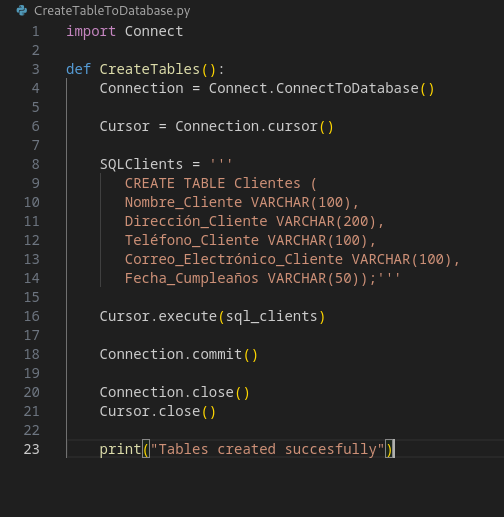
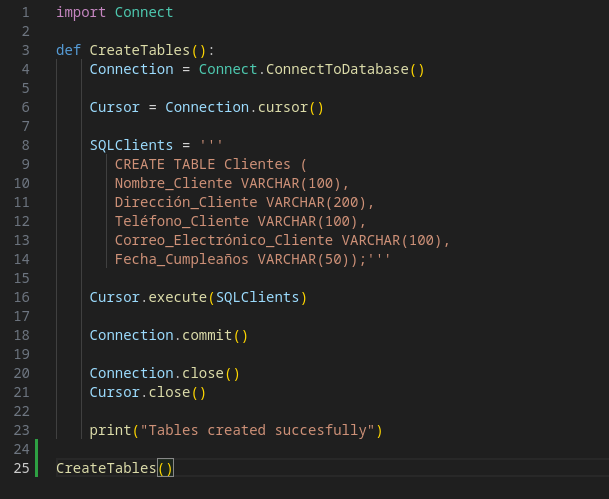
Treball a classe 23/01/2025

diff --git a/bloc2_Jan/postgresql_python/DictionaryToDatabase.py b/bloc2_Jan/postgresql_python/DictionaryToDatabase.py
@@ -4,7 +4,7 @@ def SendDataToDatabase(Index, Data):
    Connection = Connect.ConnectToDatabase()
 
    Cursor = Connection.cursor()
-   SQLInstruction = "INSERT INTO Clientes2 (nombre_cliente, dirección_cliente, teléfono_cliente, correo_electrónico_cliente, fecha_cumpleaños) VALUES (%s, %s, %s, %s, %s);"
+   SQLInstruction = "INSERT INTO Clientes (nombre_cliente, dirección_cliente, teléfono_cliente, correo_electrónico_cliente, fecha_cumpleaños) VALUES (%s, %s, %s, %s, %s);"
 
    Values = (Data["Nombre_Cliente"][Index], Data["Dirección_Cliente"][Index], Data["Teléfono_Cliente"][Index], Data["Correo_Electrónico_Cliente"][Index], Data["Fecha_Cumpleaños"][Index])
 

diff --git a/bloc2_Jan/postgresql_python/CreateRegister.py b/bloc2_Jan/postgresql_python/CreateRegister.py
@@ -1,0 +1,17 @@
+import Connect
+
+def CreateRegister():
+    Connection = Connect.ConnectToDatabase()
+
+    Cursor = Connection.cursor()
+
+    SQLCreate = "INSERT INTO Clientes (nombre_cliente, dirección_cliente, teléfono_cliente, correo_electrónico_cliente, fecha_cumpleaños) VALUES (%s, %s, %s, %s, %s);"
+
+    Values = ('Roger', 'carrer el que sigui', '678113452', 'correu@correu.com', '12_09_1999')
+
+    Cursor.execute(SQLCreate, Values)
+
+    Connection.commit()
+
+    Connection.close()
+    Cursor.close()

diff --git a/bloc2_Jan/postgresql_python/CreateTableToDatabase.py b/bloc2_Jan/postgresql_python/CreateTableToDatabase.py
@@ -21,3 +21,5 @@ def CreateTables():
     Cursor.close()
 
     print("Tables created succesfully")
+
+CreateTables()

diff --git a/bloc2_Jan/readme.md b/bloc2_Jan/readme.md
@@ -10,7 +10,7 @@ També m'aseguro de que el docker-compose.yml tingui totes les dades correctes i
 Creo les mini llibreries que necessitem (CreateTableToDictionary, CSVToDictionary, DictionaryToDatabase), CreateTableToDictionary creará la taula a la base de dades, CSVToDictionary pasa un CSV a la estructura de dades d'un diccionari, DictionaryToDatabase transforma un dictionari a la comanda SQL per insertar dades a la base de dades
 ![4](../Captures/4.png)
 
-Creo CreateTableToDictionary que simplement crea la taula de clients a la base de dades
+Creo CreateTableToDatabase que simplement crea la taula de clients a la base de dades
 ![5](../Captures/5.png)
 
 Creo CSVToDictionary llegeix el CSV amb Pandas y el transforma a un dicionari, passant la informació a DictionaryToDatabase per enviar-ho tot a la base de dades
@@ -24,3 +24,11 @@ Creo DictionaryToDatabase que transforma el diccionari a una comanda SQL per env
 
 (He corregit l'estructura dels arxius)
 ![8](../Captures/8.png)
+
+He creat les taules a través del script
+![10](../Captures/10.png)
+![11](../Captures/11.png)
+
+I les he populat
+![12](../Captures/12.png)
+![13](../Captures/13.png)
